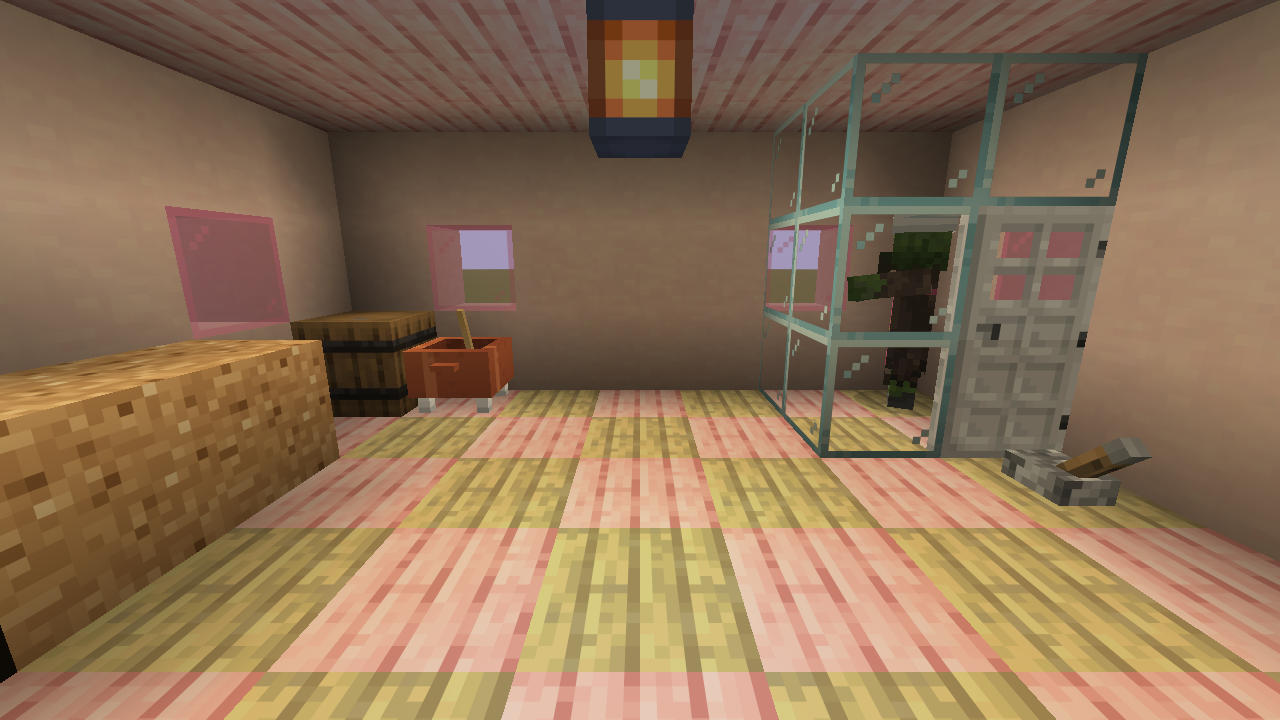
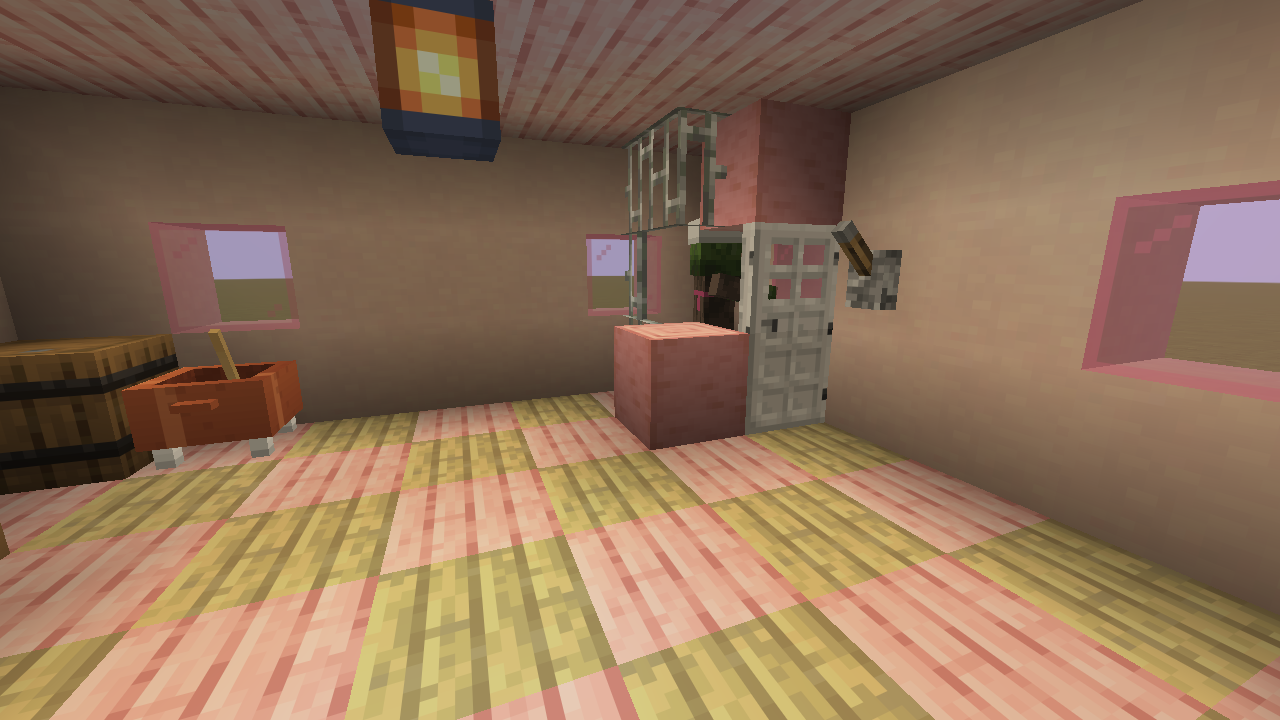
Prints com a cela nova da Dona Benedita
- dentro-da-doceria.png: câmera virada para a cela (pilar com vão,
  verga e alavanca na parede).
- dialogo.png: capítulo 2 com a dica do vão.
- README e comentário do gametest: Seu Zé vira Dona Benedita.

diff --git a/src/gametest/java/com/fernando/pacoca/test/PrintsDoMod.java b/src/gametest/java/com/fernando/pacoca/test/PrintsDoMod.java
@@ -32,7 +32,7 @@ public class PrintsDoMod implements FabricClientGameTest {
 		// try-with-resources: fecha o mundo no fim, mesmo se der erro (como um "using"/finally).
 		try (TestSingleplayerContext world = context.worldBuilder().create()) {
 			TestServerContext server = world.getServer();
-			server.runCommand("difficulty easy");      // no Pacífico o Seu Zé (zumbi) sumiria
+			server.runCommand("difficulty easy");      // no Pacífico a Dona Benedita (zumbi) sumiria
 			server.runCommand("time set noon");
 			server.runCommand("gamemode spectator @a"); // câmera livre, sem mão aparecendo
 
@@ -60,7 +60,8 @@ public class PrintsDoMod implements FabricClientGameTest {
 			context.runOnClient(mc -> mc.gui.hud.toggle()); // esconde o HUD (como apertar F1)
 
 			cena(context, server, "tp @a -4.5 -57 -3.5", new BlockPos(4, -59, 4), "01-doceria");
-			cena(context, server, "tp @a 2.5 -60 4.5", new BlockPos(7, -60, 4), "02-dentro-da-doceria");
+			// Olha para a cela (canto x=6..7, z=6..7 do molde): pilar com o vão, verga e alavanca
+			cena(context, server, "tp @a 2.5 -60 4.5", new BlockPos(7, -60, 6), "02-dentro-da-doceria");
 			cena(context, server, "tp @a -5.5 -58.4 15.5", new BlockPos(-5, -59, 12), "03-doceiro");
 			cena(context, server, "tp @a -8.5 -58.4 28.5", new BlockPos(-9, -59, 24), "04-itens");
 

diff --git a/README.md b/README.md
@@ -2,7 +2,7 @@
 
 | | |
 |---|---|
-| ![A Doceria](docs/prints/doceria.png) | ![Dentro da Doceria, com o Seu Zé na cela](docs/prints/dentro-da-doceria.png) |
+| ![A Doceria](docs/prints/doceria.png) | ![Dentro da Doceria, com a Dona Benedita na cela](docs/prints/dentro-da-doceria.png) |
 | ![O Doceiro e a Panela de Doces](docs/prints/doceiro.png) | ![Os itens do mod](docs/prints/itens.png) |
 | ![Um capítulo da lenda](docs/prints/dialogo.png) | ![A árvore de conquistas](docs/prints/conquistas.png) |
 
@@ -27,9 +27,10 @@ Uma história contada em conquistas (aba própria na tela de Progressos) e diál
 1. Pegue uma paçoca: começa a lenda.
 2. Nas **vilas de planície** pode surgir uma **Doceria** (casinha de telhado rosa). No baú está o
    *Caderno de Receitas da Vovó*, uma Maçã Dourada e uma Poção Arremessável de Fraqueza.
-3. Na cela de vidro está o **Seu Zé**, o último Doceiro, transformado em aldeão zumbi.
-   Arremesse a poção nele, abra a cela com a alavanca e dê a maçã dourada.
-4. Curado, ele volta a trabalhar na **Panela de Doces** e vende Paçoca Picante, bolo, maçã dourada
+3. Na cela de grades está a **Dona Benedita**, a última Doceira, transformada em aldeã zumbi.
+   Pelo vão no pilar da cela, arremesse a poção nela e dê a maçã dourada; depois abra a porta
+   com a alavanca da parede.
+4. Curada, ela volta a trabalhar na **Panela de Doces** e vende Paçoca Picante, bolo, maçã dourada
    e, no nível Mestre, a **Paçoca Dourada**.
 
 A Panela de Doces só funciona com Doceiros: aldeões desempregados a ignoram.
